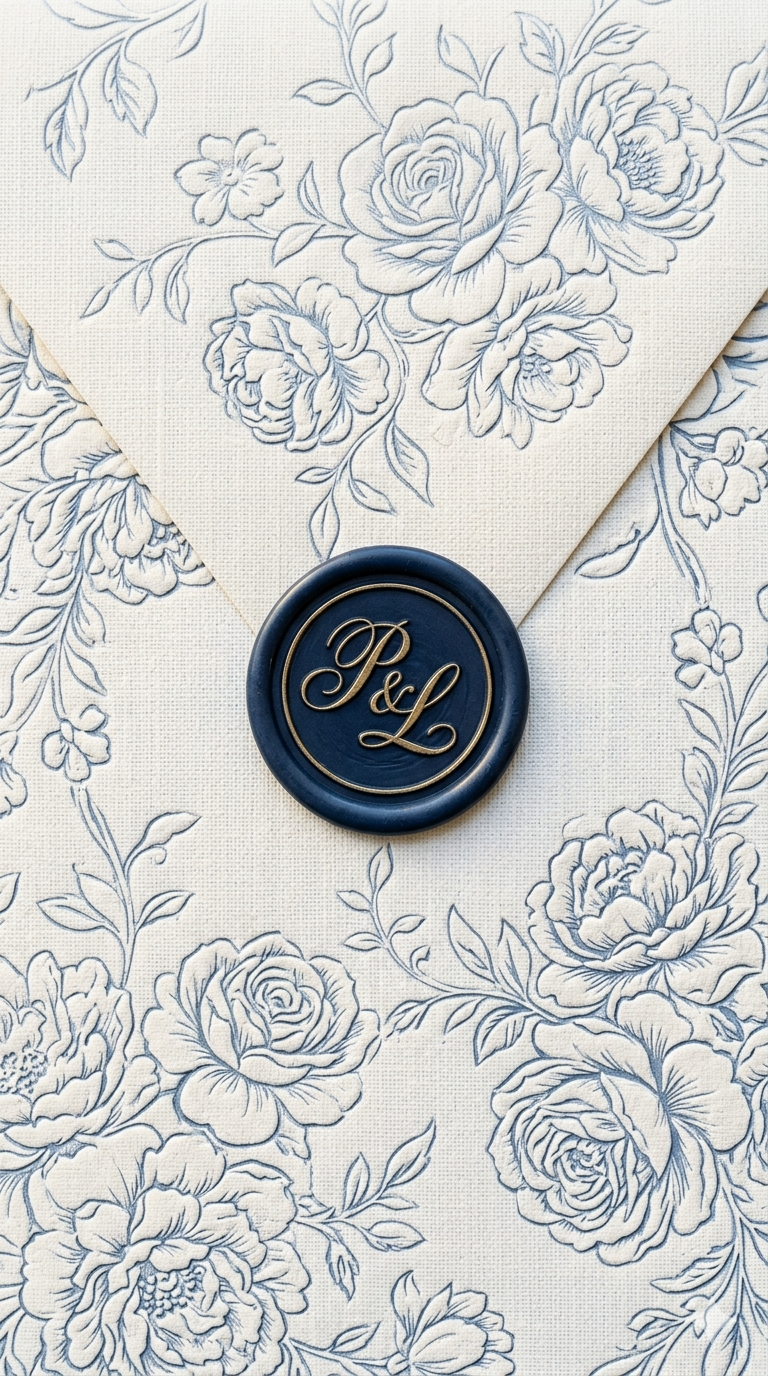
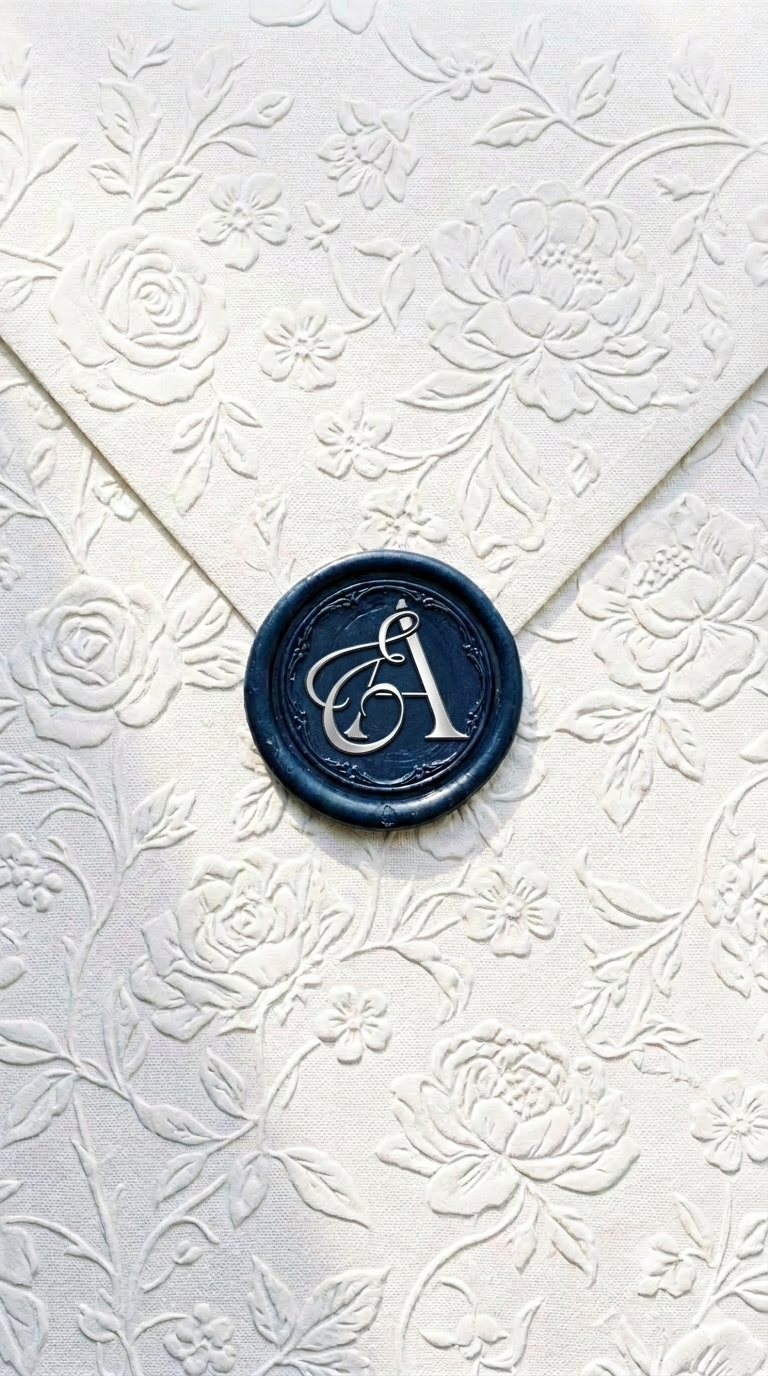
Redesign envelope screen + new assets
- New envelope.png and envelope.mp4 (white with navy seal)
- Elegant "Toca para abrir" button with Christmas palette
- Gold decorative lines, Pinyon Script names, pill CTA
- OG image center-cropped from new envelope

diff --git a/index.html b/index.html
@@ -857,7 +857,7 @@ a:focus-visible,button:focus-visible{outline:2px solid var(--gold);outline-offse
 
 #envelope-screen{
   position:fixed;inset:0;z-index:9998;
-  background:#fff;
+  background:linear-gradient(160deg,#5A1E2B 0%,#7A2E3B 40%,#4A1A24 100%);
   display:flex;align-items:center;justify-content:center;
   cursor:pointer;overflow:hidden;
 }
@@ -870,20 +870,50 @@ a:focus-visible,button:focus-visible{outline:2px solid var(--gold);outline-offse
 #env-image{opacity:0;z-index:1}
 #env-video{opacity:0;z-index:2;pointer-events:none}
 #env-hint{
-  position:absolute;bottom:min(9vh,80px);left:50%;transform:translateX(-50%);
-  font-family:var(--sans);font-size:14px;font-weight:500;
-  letter-spacing:.5em;text-transform:uppercase;
-  color:#F8F5EC;padding:14px 28px 14px 28.5px;z-index:3;
-  background:rgba(74,26,36,.88);
-  border:1px solid rgba(232,213,160,.55);
+  position:absolute;bottom:min(12vh,110px);left:50%;transform:translateX(-50%);
+  z-index:3;display:flex;flex-direction:column;align-items:center;gap:10px;
+  text-align:center;
+}
+.env-hint-line{
+  display:block;width:48px;height:1px;
+  background:linear-gradient(90deg,transparent,#C9A456,transparent);
+}
+.env-hint-label{
+  font-family:'Cormorant Garamond',serif;font-size:15px;font-weight:400;
+  letter-spacing:.35em;text-transform:uppercase;
+  color:rgba(248,240,224,.7);
+}
+.env-hint-main{
+  font-family:'Pinyon Script',cursive;font-size:26px;font-weight:400;
+  color:#C9A456;letter-spacing:.04em;
+  text-shadow:0 0 18px rgba(201,164,86,.35);
+}
+.env-hint-pill{
+  display:inline-flex;align-items:center;gap:8px;
+  padding:10px 30px;margin-top:2px;
+  background:rgba(201,164,86,.12);
+  border:1px solid rgba(201,164,86,.45);
   border-radius:999px;
-  box-shadow:0 8px 28px rgba(74,26,36,.35),0 0 0 6px rgba(255,255,255,.08);
-  backdrop-filter:blur(6px);-webkit-backdrop-filter:blur(6px);
-  animation:envHintPulse 1.8s ease-in-out infinite;
+  backdrop-filter:blur(8px);-webkit-backdrop-filter:blur(8px);
+  animation:envHintPulse 2.2s ease-in-out infinite;
+}
+.env-hint-pill span{
+  font-family:'Cormorant Garamond',serif;font-size:13px;font-weight:500;
+  letter-spacing:.4em;text-transform:uppercase;
+  color:#E8D5A0;
+}
+.env-hint-pill svg{
+  width:14px;height:14px;fill:none;stroke:#C9A456;stroke-width:1.5;
+  stroke-linecap:round;stroke-linejoin:round;
+  animation:envArrowBounce 1.6s ease-in-out infinite;
 }
 @keyframes envHintPulse{
-  0%,100%{box-shadow:0 8px 28px rgba(74,26,36,.35),0 0 0 6px rgba(255,255,255,.08)}
-  50%{box-shadow:0 12px 36px rgba(74,26,36,.45),0 0 0 10px rgba(255,255,255,.04)}
+  0%,100%{box-shadow:0 4px 24px rgba(201,164,86,.15),0 0 0 0 rgba(201,164,86,.08)}
+  50%{box-shadow:0 6px 32px rgba(201,164,86,.25),0 0 0 6px rgba(201,164,86,.06)}
+}
+@keyframes envArrowBounce{
+  0%,100%{transform:translateY(0)}
+  50%{transform:translateY(3px)}
 }
 #env-flash{
   position:fixed;inset:0;z-index:9999;
@@ -917,7 +947,16 @@ a:focus-visible,button:focus-visible{outline:2px solid var(--gold);outline-offse
   <video id="env-video" muted playsinline preload="auto">
     <source src="envelope.mp4" type="video/mp4">
   </video>
-  <div id="env-hint">Toca para abrir</div>
+  <div id="env-hint">
+    <span class="env-hint-line"></span>
+    <span class="env-hint-label">Has sido invitado</span>
+    <span class="env-hint-main">Ariadna &amp; Carlos</span>
+    <div class="env-hint-pill">
+      <span>Toca para abrir</span>
+      <svg viewBox="0 0 24 24"><path d="M12 5v14M5 12l7 7 7-7"/></svg>
+    </div>
+    <span class="env-hint-line"></span>
+  </div>
 </div>
 <div id="env-flash" aria-hidden="true"></div>
 